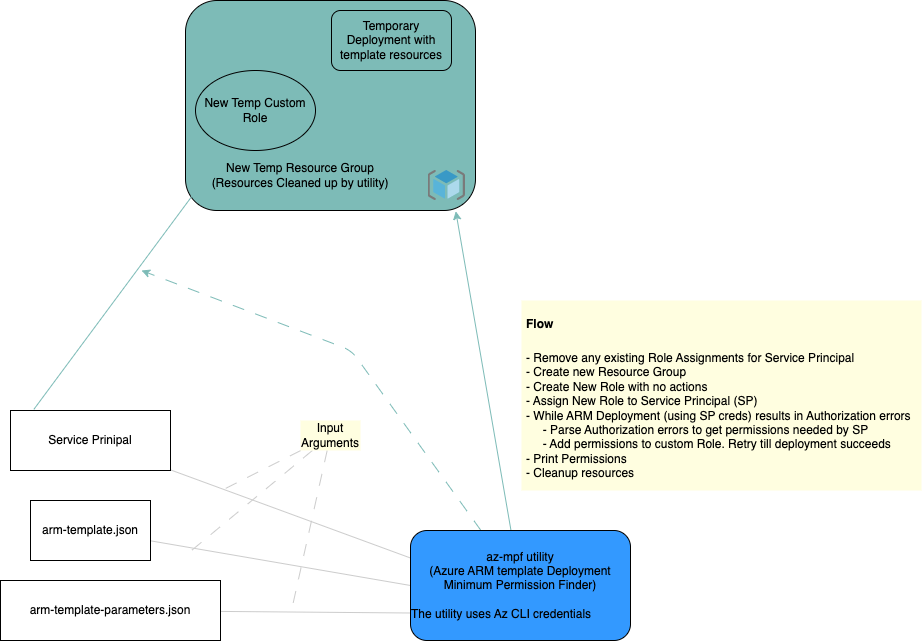
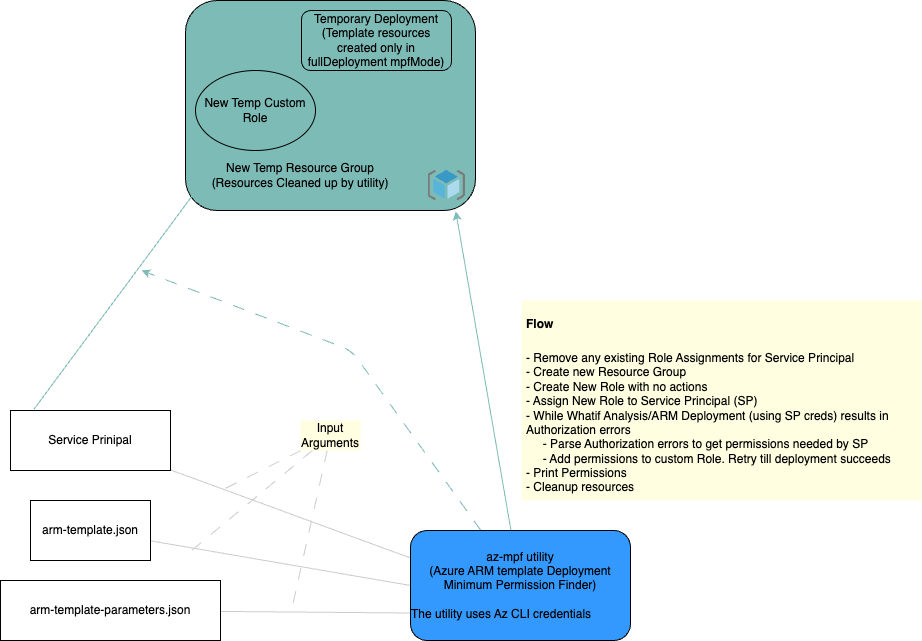
Add whatif mode analysis to docs (#14)

diff --git a/Readme.MD b/Readme.MD
@@ -33,8 +33,10 @@ Following is the detailed flow of how this utility works:
 * A new Resource Group and Custom Role (with no assigned permissions) are created
 * The Service Principal (SP) is assigned the new custom role
 * For the above steps the utitity uses the **default Azure CLI credentials** which needs to have permissions to create custom role, resource group, and role assignments
-* For the following sub steps the **Service Principal Credentials** are used. These sub steps are re-tried till the deployment succeeds
-  * Attempt to deploy ARM template using template and parameters file
+* For the following sub steps the **Service Principal Credentials** are used. These sub steps are re-tried till the deployment succeeds in fullDeployment mode, or till the whatif request does not return any errors (in whatif mode)
+  * Default mpfMode is whatif, alternate mode is fullDeployment (can be set using flag -mpfMode fullDeployment)
+    * In Default whatif mpfMode a blank deployment is created and ARM what if analysis is done using the ARM template and parameters file
+    * In fullDeployment mode , attempt to deploy ARM template using template and parameters file
   * Check if Authorization errors have occured. Parse Authorization errors to fetch the scopes and corresponding permissions for which errors have occured. The [authorizationErrorParser Tests](./authorizationErrorParser_test.go) provide details of the kinds of Authorization erros typically received.
   * Add the missing permissions to custom Role. This sub step uses **default Azure CLI credentials** to update role permissions.
 * Print the Permissions. There are options provided to view the resource wise break up of permissions and also to export the result in JSON format
@@ -117,6 +119,7 @@ Parameters can be supplied to the utility either via command line or via environ
 | servicePrincipalClientID   | SP_CLIENT_ID                   | Required            |                                                 |
 | servicePrincipalObjectID   | SP_OBJECT_ID                   | Required            | Note this is the SP Object id and is different from the Client ID                                               |
 | servicePrincipalClientSecret | SP_CLIENT_SECRET             | Required            |                                                 |
+| mpfMode                    | N/A                            | Required            | Default is "whatif". Alternately fullDeployment can be used which tries to create all resources while finding the minimum permissions required   |
 | templateFilePath           | TEMPLATE_FILE                  | Required            | ARM template file with path                     |
 | parametersFilePath         | PARAMETERS_FILE                | Required            | ARM template parameters file with path          |
 | resourceGroupNamePfx       | TEST_DEPLOYMENT_RESOURCE_GROUP_NAME_PFX | Optional     | Prefix for the resource group name. If not provided, default prefix is testdeployrg |
